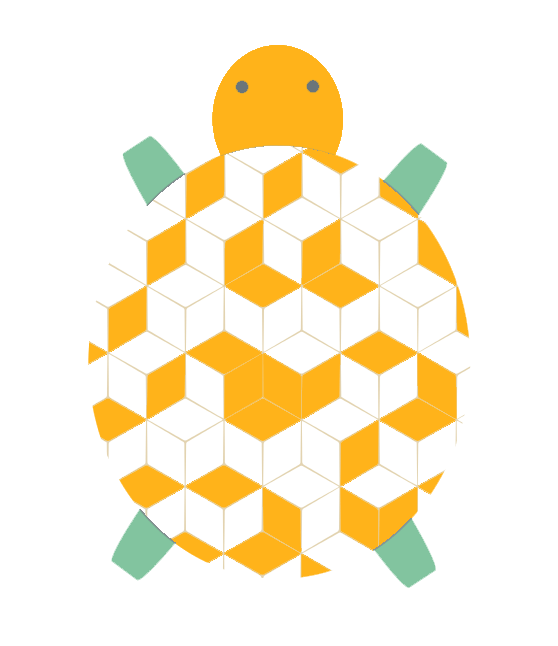
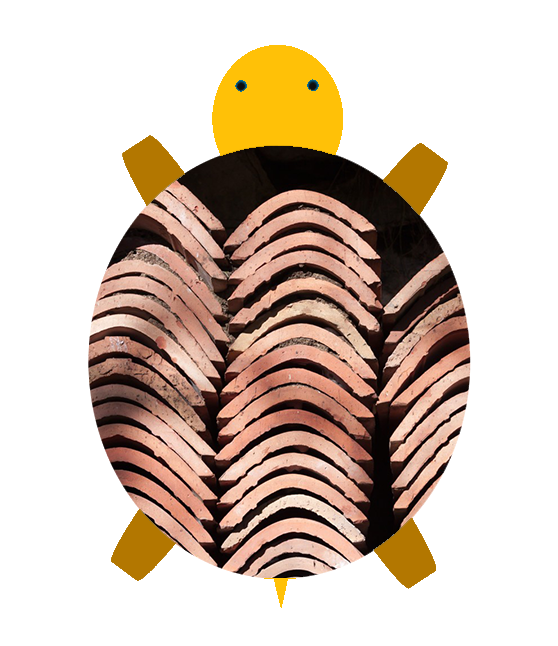
Added more image components and modified image-blend-randomize.js file

diff --git a/image-blend-randomize.js b/image-blend-randomize.js
@@ -1,17 +1,19 @@
 var images = require('images');
 
 var folder = 'components';
-var components = ['head', 'shell', 'legs'];
+var components = ['head', 'legs', 'shell', 'tail'];
 var file_extension = '.png';
 var total_components = components.length;
 
-var num_images_per_component = 3;
+var num_images_per_component = [15, 15, 19, 12];
+
+genRandomImage();
 
 async function genRandomImage() {
   var randomNumbers = new Array();
 
   for (var i = 0; i < total_components; i++) {
-    var num = Math.floor(Math.random() * num_images_per_component + 1);
+    var num = Math.floor(Math.random() * num_images_per_component[i] + 1);
     randomNumbers.push(num.toString());
   }
 
